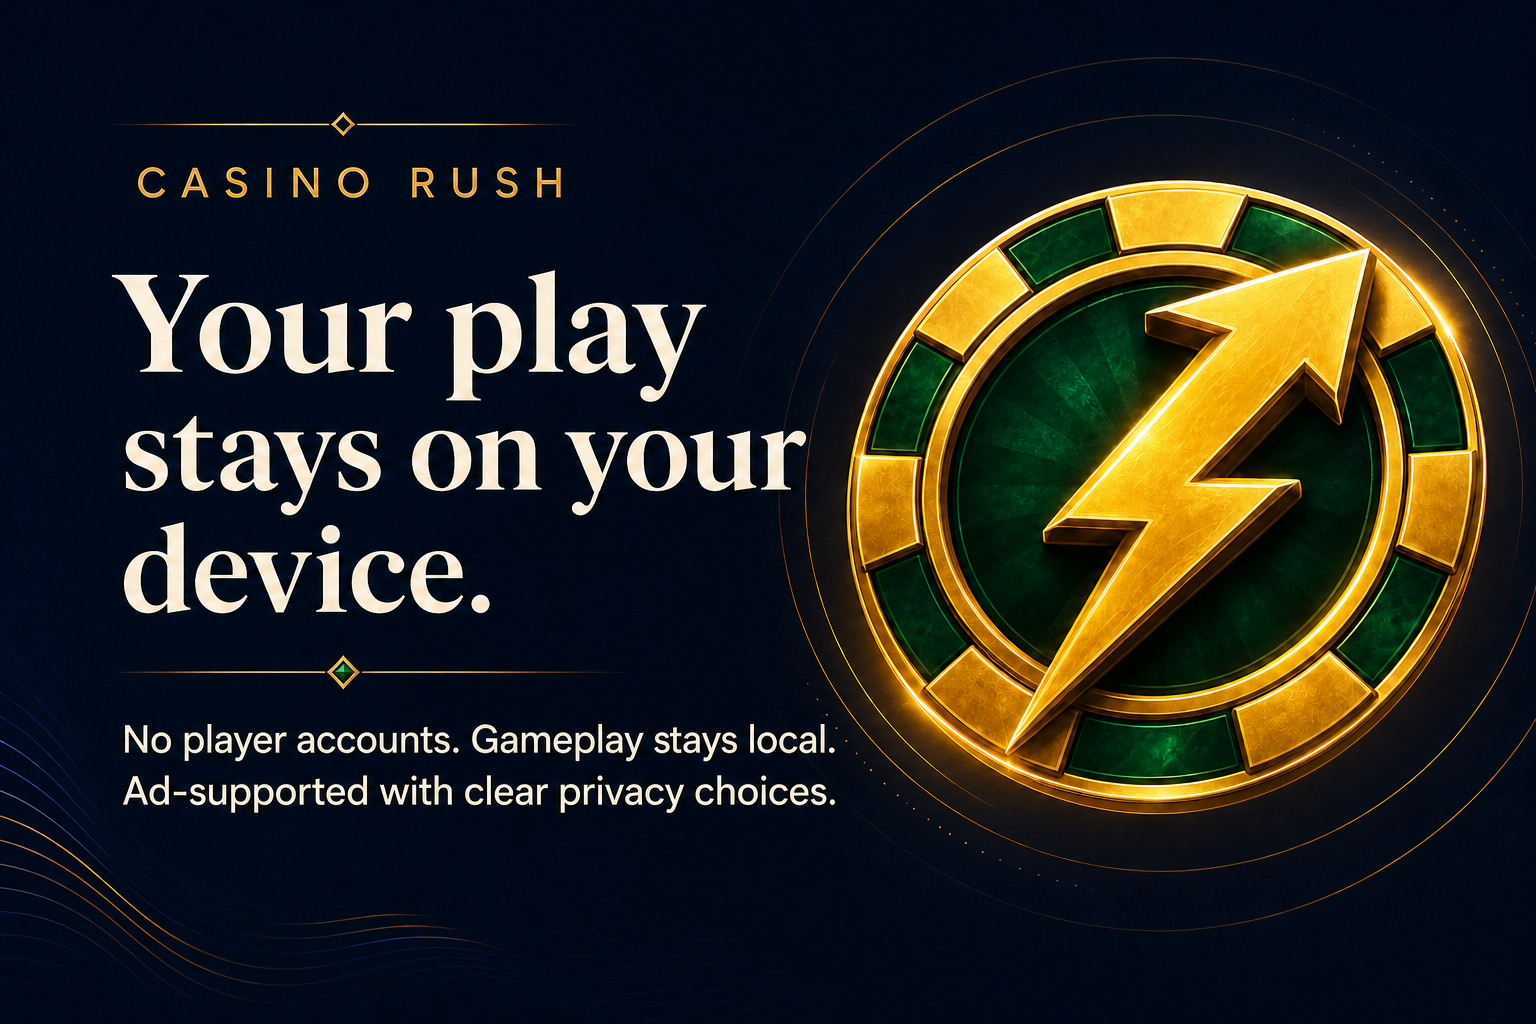
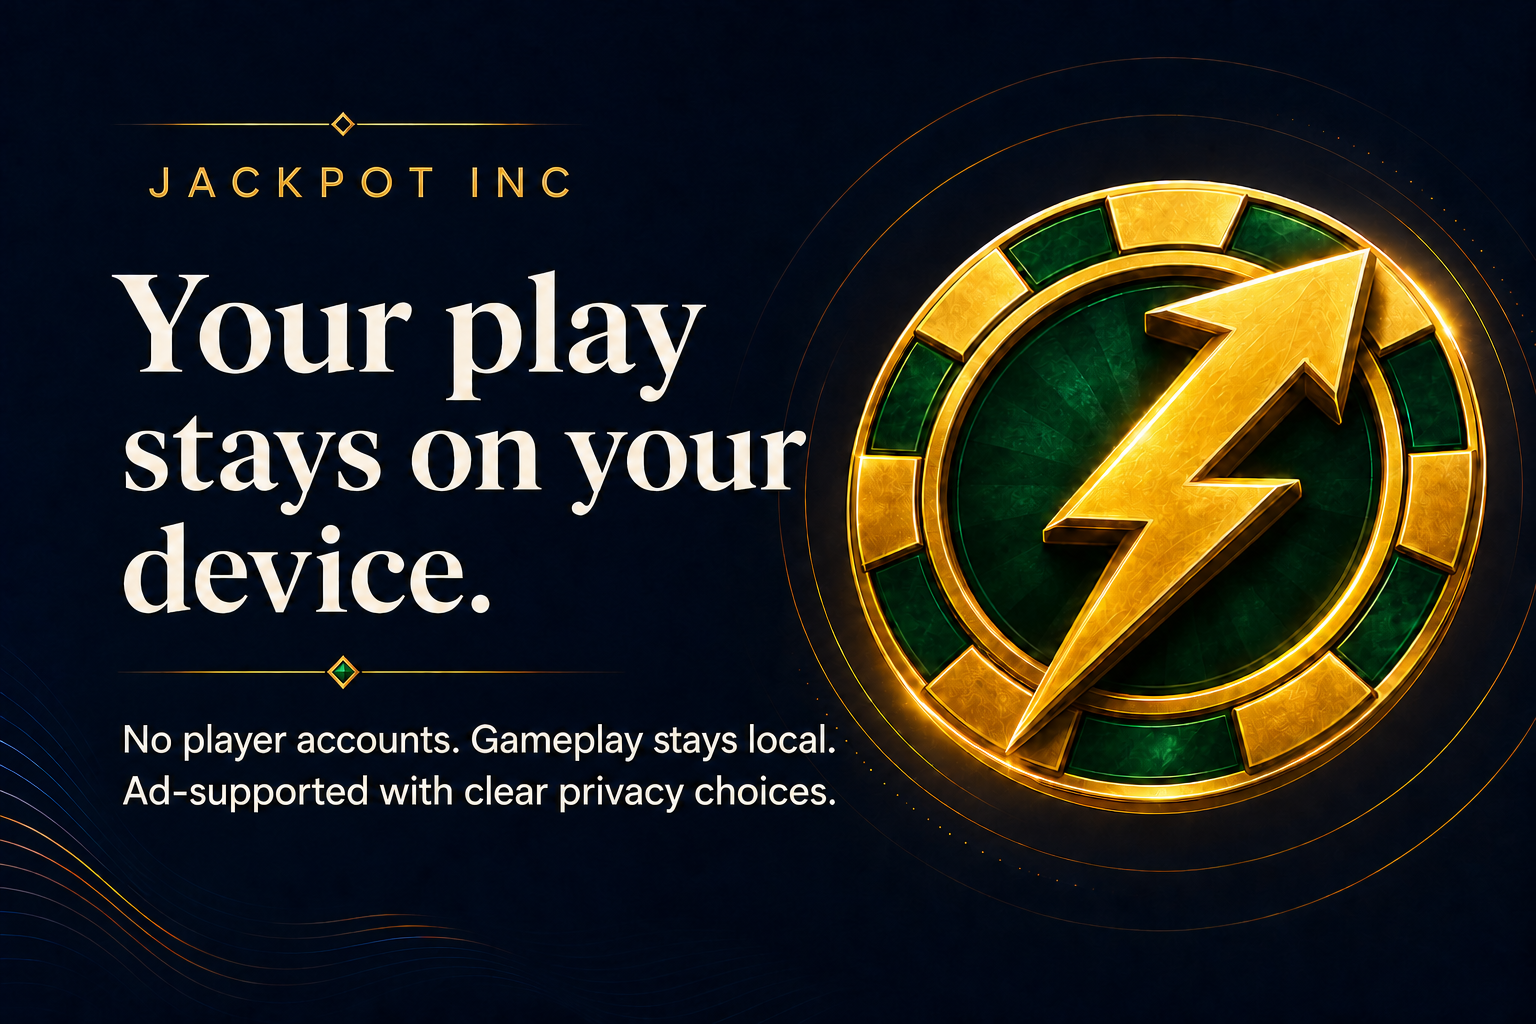
Rename privacy site to Jackpot Inc

diff --git a/index.html b/index.html
@@ -6,19 +6,19 @@
     <meta name="theme-color" content="#07101f" />
     <meta
       name="description"
-      content="The privacy policy and official support information for Retro Bet on iOS."
+      content="The privacy policy and official support information for Jackpot Inc on iOS."
     />
-    <meta property="og:title" content="Retro Bet — Privacy &amp; Support" />
+    <meta property="og:title" content="Jackpot Inc — Privacy &amp; Support" />
     <meta
       property="og:description"
-      content="No Retro Bet account required. Optional coin purchases use Apple StoreKit; Apple Game Center powers leaderboards and Google AdMob provides advertising."
+      content="No Jackpot Inc account required. Optional coin purchases use Apple StoreKit; Apple Game Center powers leaderboards and Google AdMob provides advertising."
     />
     <meta property="og:type" content="website" />
     <meta
       property="og:image"
       content="https://brycebehncke-coder.github.io/casino-rush-privacy/og-ads.png"
     />
-    <title>Retro Bet — Privacy &amp; Support</title>
+    <title>Jackpot Inc — Privacy &amp; Support</title>
     <link rel="stylesheet" href="./styles.css" />
   </head>
   <body>
@@ -26,9 +26,9 @@
       <a class="skip-link" href="#privacy">Skip to privacy policy</a>
 
       <header class="site-header">
-        <a class="brand" href="#top" aria-label="Retro Bet home">
-          <span class="brand-mark" aria-hidden="true">RB</span>
-          <span>Retro Bet</span>
+        <a class="brand" href="#top" aria-label="Jackpot Inc home">
+          <span class="brand-mark" aria-hidden="true">JI</span>
+          <span>Jackpot Inc</span>
         </a>
         <nav aria-label="Primary navigation">
           <a href="#privacy">Privacy</a>
@@ -51,7 +51,7 @@
             <span> on your device.</span>
           </h1>
           <p class="hero-summary">
-            Retro Bet is a casino-style arcade made for entertainment. It runs
+            Jackpot Inc is a casino-style arcade made for entertainment. It runs
             without player accounts, offers optional play-coin purchases
             handled by Apple, and uses Google AdMob for advertising.
           </p>
@@ -90,7 +90,7 @@
           <p class="card-number">01</p>
           <h2>No account required</h2>
           <p>
-            Retro Bet does not create its own player account. Apple handles
+            Jackpot Inc does not create its own player account. Apple handles
             optional purchases and Game Center leaderboard identity.
           </p>
         </article>
@@ -104,7 +104,7 @@
           <h2>Local gameplay</h2>
           <p>
             Your game outcomes, play coins, card collection, and recent-play
-            history are not sent to Retro Bet servers.
+            history are not sent to Jackpot Inc servers.
           </p>
         </article>
       </section>
@@ -117,7 +117,7 @@
           </p>
           <h2>Clear by design.</h2>
           <p>
-            This policy explains how Retro Bet handles information when you
+            This policy explains how Jackpot Inc handles information when you
             use the iOS app.
           </p>
           <p class="effective-date">Effective July 30, 2026</p>
@@ -129,10 +129,10 @@
             <div>
               <h3>Information we collect</h3>
               <p>
-                Retro Bet does not ask for your name, email address, contacts,
+                Jackpot Inc does not ask for your name, email address, contacts,
                 photos, precise location, payment information, or create its
-                own player account. Apple processes optional purchases; Retro
-                Bet never receives your card or banking details. If you use
+                own player account. Apple processes optional purchases; Jackpot
+                Inc never receives your card or banking details. If you use
                 Apple Game Center, Apple supplies your Game Center display
                 name and manages your leaderboard identity. Google AdMob may
                 process device identifiers, IP address, ad interactions, and
@@ -148,10 +148,10 @@
             <div>
               <h3>Ads and optional purchases</h3>
               <p>
-                Retro Bet uses Google Mobile Ads and Google's consent tools.
+                Jackpot Inc uses Google Mobile Ads and Google's consent tools.
                 A banner appears at the bottom of the app, and a full-screen ad
                 may appear at a natural break after ten minutes of active play.
-                Retro Bet requests non-personalized treatment for every ad and
+                Jackpot Inc requests non-personalized treatment for every ad and
                 does not ask for permission to track activity across other
                 companies' apps and websites.
                 Optional consumable play-coin packs use Apple's StoreKit
@@ -171,7 +171,7 @@
                 device. Your current play-coin balance, favorites, purchased
                 cards, equipped booster, largest single win, cumulative losses,
                 and identifiers for fulfilled StoreKit transactions are saved
-                on your device. Retro Bet does not send gameplay or purchase
+                on your device. Jackpot Inc does not send gameplay or purchase
                 fulfillment records to its own servers.
               </p>
             </div>
@@ -185,7 +185,7 @@
                 Where required, the app asks for advertising consent before
                 requesting ads. Settings includes Privacy Choices whenever
                 Google's consent system requires it, allowing you to review or
-                withdraw that consent. Retro Bet still requests
+                withdraw that consent. Jackpot Inc still requests
                 non-personalized ad treatment after consent.
                 Learn more in the
                 <a href="https://policies.google.com/privacy">Google Privacy Policy</a>.
@@ -201,7 +201,7 @@
             <div>
               <h3>Apple Game Center leaderboards</h3>
               <p>
-                If you enable Game Center, Retro Bet submits three score
+                If you enable Game Center, Jackpot Inc submits three score
                 totals to Apple: your current play-coin balance, largest profit
                 from one round, and cumulative play coins lost. Apple handles
                 those scores and your Game Center profile. The app also uses
@@ -220,7 +220,7 @@
             <div>
               <h3>Retention and deletion</h3>
               <p>
-                Retro Bet keeps gameplay state on your device until you reset
+                Jackpot Inc keeps gameplay state on your device until you reset
                 it in the app or delete the app. Deleting the app removes that
                 local data from the device. Apple keeps purchase and Game
                 Center records, and Google keeps advertising data, according
@@ -245,8 +245,8 @@
 
       <section class="coins-section" id="play-coins">
         <div class="coin-art" aria-hidden="true">
-          <span class="coin coin-back">RB</span>
-          <span class="coin coin-front">RB</span>
+          <span class="coin coin-back">JI</span>
+          <span class="coin coin-front">JI</span>
         </div>
         <div>
           <p class="eyebrow light">
@@ -255,7 +255,7 @@
           </p>
           <h2>Just a game. Never real money.</h2>
           <p>
-            Retro Bet uses fictional play coins that can be earned free or
+            Jackpot Inc uses fictional play coins that can be earned free or
             obtained through optional consumable purchases. Play coins have no
             cash value, provide no prizes, and cannot be sold, transferred,
             redeemed, or exchanged for anything of real-world value.
@@ -272,16 +272,16 @@
           <h2>Need a hand?</h2>
           <p>
             For gameplay questions, technical help, purchase-delivery issues,
-            or privacy questions, open a request through the official Retro
-            Bet support tracker.
+            or privacy questions, open a request through the official Jackpot
+            Inc support tracker.
           </p>
         </div>
-        <ol aria-label="How to contact Retro Bet support">
+        <ol aria-label="How to contact Jackpot Inc support">
           <li>
             <span>1</span>
             <p>
               <a href="https://github.com/brycebehncke-coder/casino-rush-privacy/issues/new">
-                Open a Retro Bet support request.
+                Open a Jackpot Inc support request.
               </a>
             </p>
           </li>
@@ -298,8 +298,8 @@
 
       <footer>
         <a class="brand footer-brand" href="#top" aria-label="Back to top">
-          <span class="brand-mark" aria-hidden="true">RB</span>
-          <span>Retro Bet</span>
+          <span class="brand-mark" aria-hidden="true">JI</span>
+          <span>Jackpot Inc</span>
         </a>
         <p>Privacy &amp; Support · Effective July 30, 2026</p>
       </footer>
